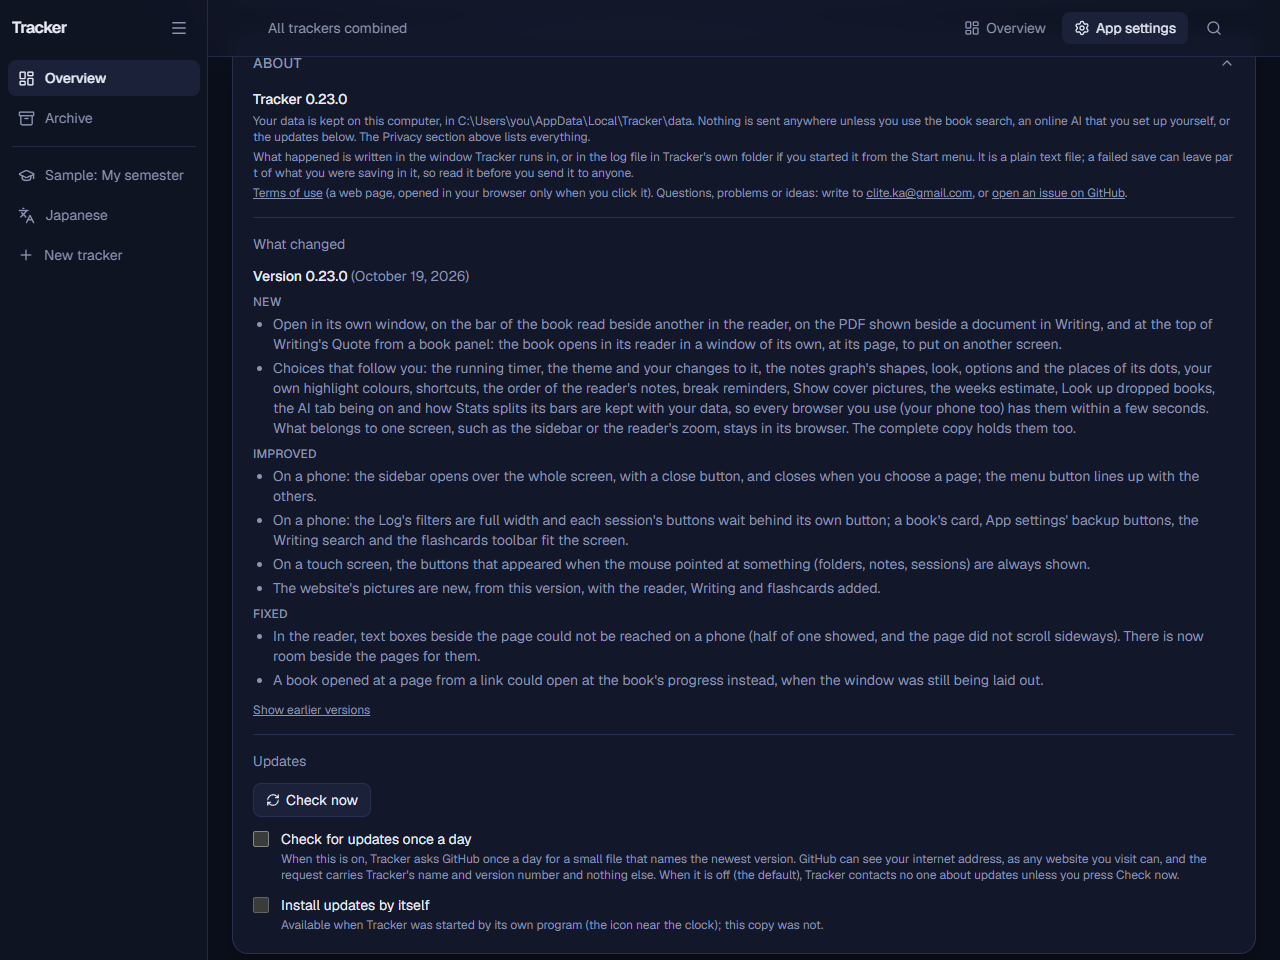
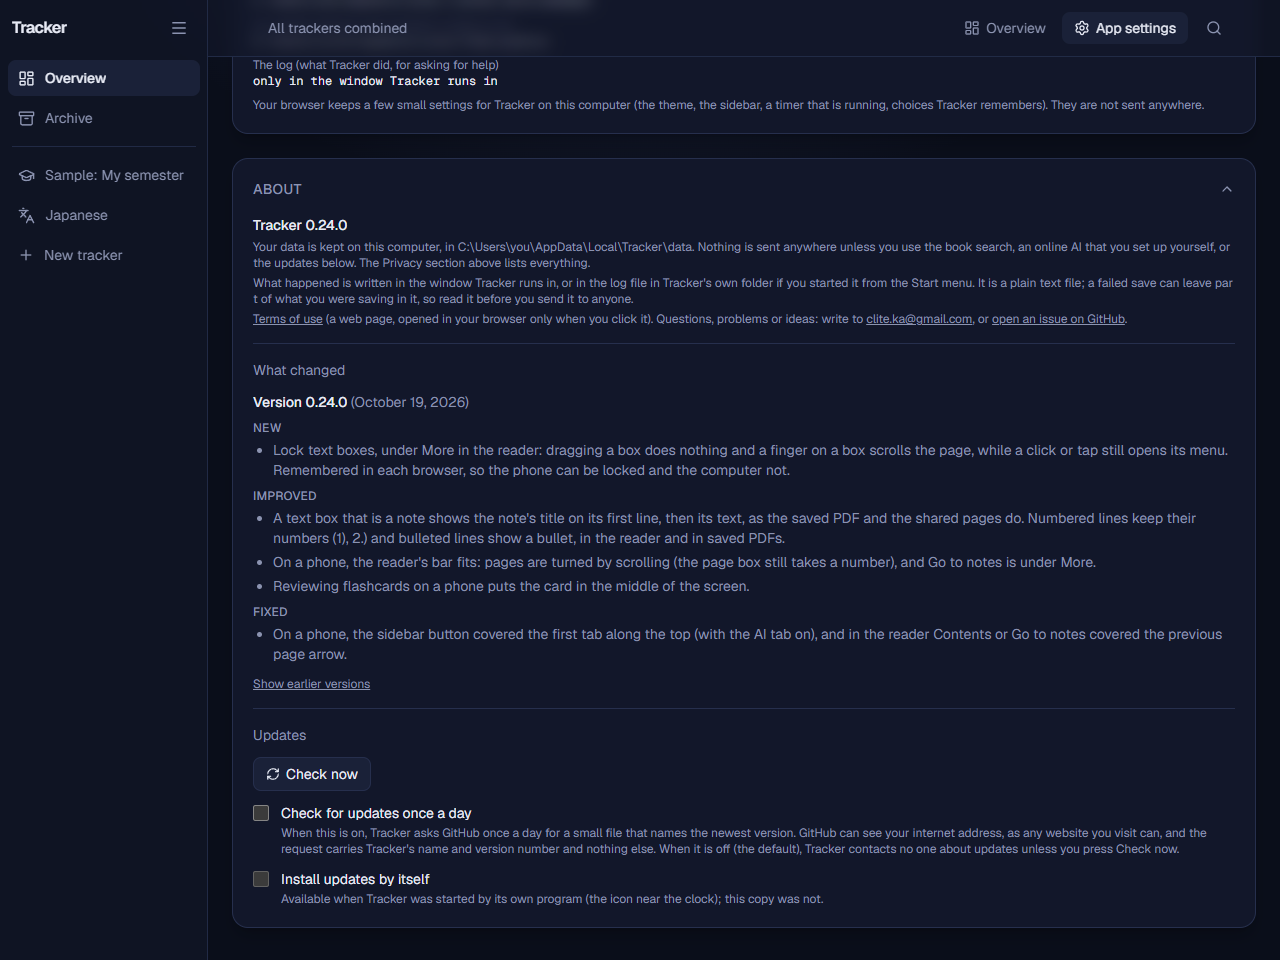
Update the site

Changed region(s): [[0.1875, 0.0625, 0.9688, 0.625], [0.1875, 0.6562, 0.9688, 0.9688], [0.1875, 0.625, 0.2188, 0.6562]]

diff --git a/docs/manual.html b/docs/manual.html
@@ -23,7 +23,7 @@
   </header>
 
   <h1>The full user manual</h1>
-  <p class="lead">Everything Tracker does, part by part. New here? Start with <a href="guide.html">Getting started in ten minutes</a>. This manual describes version 0.23.0; later versions may add things, and App settings, About lists what changed.</p>
+  <p class="lead">Everything Tracker does, part by part. New here? Start with <a href="guide.html">Getting started in ten minutes</a>. This manual describes version 0.24.0; later versions may add things, and App settings, About lists what changed.</p>
 
   <div class="layout">
     <nav class="toc" aria-label="Contents">
@@ -309,9 +309,9 @@
           <li>The <strong>Notes</strong> panel beside the book is for writing while you read. What you type there becomes an ordinary note about this book and the page you are on, saved as you type. <em>New note</em> (or <kbd>N</kbd>) starts another, and the &times; in the box clears it. A quote goes into the note being written; when the box holds a note you opened to change, a quote starts a new note instead.</li>
           <li>Select words on the page: <strong>Quote</strong> puts them in your note with their page, <strong>Highlight</strong> marks them in one of eight colours (yellow, green, blue, pink, orange, purple, red, teal), and <strong>Ask</strong> asks the AI about them (below). Highlighting does not open the Notes panel; <em>Write a note</em> in the highlight&rsquo;s menu does. The <strong>+</strong> after the colours adds a colour of your own (up to eight, the same in every browser you use); it is used like the others, in Save with notes too. Lines that are close together are highlighted one by one, without marking the space between them twice.</li>
           <li>Click a highlight to change its colour, open or write its note, <em>Make a flashcard</em> of it (the highlighted words are the answer), or remove it; removing it keeps its note. Highlights stay on their words at any zoom or text size, and are kept in Tracker, never written into your file.</li>
-          <li>In a PDF, <strong>Text</strong> writes on the page itself, in a margin or any empty space: press it, click where the text goes and type (leaving the box or <kbd>Ctrl</kbd>+<kbd>Enter</kbd> keeps it, <kbd>Esc</kbd> drops it). Drag a text box to move it, drag its right edge to make it wider, and double-click it to change the text. Opening another box while you write keeps what you wrote in the first. A text box can also go beside the page, in the dark space to its left or right: click there with <em>Text</em> on, or drag a box there. If you would rather not, turn off <em>Text boxes beside the page</em> under More: new and moved boxes then stay on the page, and ones already beside it stay where they are (kept in this browser). New text boxes start at 8 pt. While you write, the small bar over the box has <strong>Raise</strong> and <strong>Lower</strong> (<kbd>Ctrl</kbd>+<kbd>Up</kbd>, <kbd>Ctrl</kbd>+<kbd>Down</kbd>): they turn the letter before the cursor (or the selected letters) into a raised or lowered one, as in k&#690; or x&#8322;, for the letters and numbers that have one (with the IPA&rsquo;s). Click a box for its colour, its text size, <em>Make it a note</em> (it asks for the note&rsquo;s title and where it goes, on its own or under a note you find by typing; then it becomes an ordinary note about the book at that page, and the box shows the note; the Notes panel stays as it was) and <em>Delete text box</em>, which can be undone for a few seconds and keeps the note. A click anywhere else closes its menu.</li>
+          <li>In a PDF, <strong>Text</strong> writes on the page itself, in a margin or any empty space: press it, click where the text goes and type (leaving the box or <kbd>Ctrl</kbd>+<kbd>Enter</kbd> keeps it, <kbd>Esc</kbd> drops it). Drag a text box to move it, drag its right edge to make it wider, and double-click it to change the text. Opening another box while you write keeps what you wrote in the first. A text box can also go beside the page, in the dark space to its left or right: click there with <em>Text</em> on, or drag a box there. If you would rather not, turn off <em>Text boxes beside the page</em> under More: new and moved boxes then stay on the page, and ones already beside it stay where they are (kept in this browser). New text boxes start at 8 pt. While you write, the small bar over the box has <strong>Raise</strong> and <strong>Lower</strong> (<kbd>Ctrl</kbd>+<kbd>Up</kbd>, <kbd>Ctrl</kbd>+<kbd>Down</kbd>): they turn the letter before the cursor (or the selected letters) into a raised or lowered one, as in k&#690; or x&#8322;, for the letters and numbers that have one (with the IPA&rsquo;s). Click a box for its colour, its text size, <em>Make it a note</em> (it asks for the note&rsquo;s title and where it goes, on its own or under a note you find by typing; then it becomes an ordinary note about the book at that page, and the box shows the note: its title on the first line, then its text, with numbered and bulleted lines kept; the Notes panel stays as it was) and <em>Delete text box</em>, which can be undone for a few seconds and keeps the note. A click anywhere else closes its menu. <strong>Lock text boxes</strong> under More keeps every box where it is: dragging one does nothing, a finger on a box scrolls the page (useful on a phone), and a click or tap still opens its menu. It is remembered in each browser, so the boxes can be locked on the phone and movable on the computer.</li>
           <li>In a PDF, <strong>Pen</strong> writes or draws on the page by hand (with the mouse, a pen or a finger): choose the ink (black, blue, red or green) and the thickness, and <em>Undo the last line</em> takes lines back one by one. <em>Done</em> (or <kbd>Esc</kbd>) puts the pen down. Click a line later to change its ink or thickness or to delete it.</li>
-          <li><strong>Go to notes</strong> (next to Contents) opens the Notes tab; the <strong>Library</strong> tab brings you back to the book, at the page where you were.</li>
+          <li><strong>Go to notes</strong> (next to Contents; under More on a phone) opens the Notes tab; the <strong>Library</strong> tab brings you back to the book, at the page where you were.</li>
           <li><strong>Read another book beside</strong> (under More; in an EPUB, the button with two books next to <em>Aa</em>) opens a second PDF or EPUB of the same tracker beside the one you read, to read two texts on one topic side by side. Each keeps its own page. In the second book, select words to <em>Highlight</em> them there (in any colour) or <em>Quote in my note</em>: the quotation goes into the note you are writing, followed by the other book&rsquo;s title and page, and the note stays about the first book. The buttons on its bar put it on the other side, choose another book or close it. Which book is beside, and on which side, is remembered for each book. An EPUB beside is read chapter by chapter. On a phone-sized screen there is no room for two, so the second book is not shown there.</li>
           <li><strong>Open in its own window</strong> (the arrow out of a box, on the bar of the book beside) moves that book into a window of its own, its reader at the page it was on, to put on another screen. The book beside closes in the first window. Writing has the same button (see <a href="#writing">Writing</a>). If nothing opens, your browser blocked the new window: allow pop-ups for Tracker.</li>
           <li><strong>Save with notes</strong> (a PDF) saves a copy of the book with your highlights (and the notes written about them, as their comments), text boxes and drawings written into the file as ordinary PDF annotations, so whoever you share it with sees them in Adobe Acrobat, Edge, Chrome, Brave, Firefox or Preview. Tracker's own copy of the book is not changed, so your highlights stay yours to change. A page with a text box beside it is made wider in the copy, with white paper on both sides, so that the box is on the page. The text of a text box is written with the Noto Sans font, which has Turkish, the IPA, Greek and Cyrillic; Chinese, Japanese or Korean in a text box shows as empty boxes on the page, though the full text is in the annotation's comment. A PDF locked with a password cannot be written into.</li>
@@ -386,7 +386,7 @@
         </ol>
         <p>Your phones are listed under <em>Paired phones</em>; the bin button removes one, and it can no longer open Tracker until it is paired again. Unticking the box closes the way in at once; the phones stay paired for when you tick it again. This is part of the installed Tracker (started from its icon).</p>
         <h3>On the phone</h3>
-        <p>The Dashboard and the timer, quick notes, flashcards and reading are made for a phone&rsquo;s screen. In the reader, a page fits the width, the notes open over the page with the panel button and close with the &times; (or when you go to a note&rsquo;s page), and words selected with a finger get the same menu as with a mouse. Writing and the graph are better on the computer.</p>
+        <p>The Dashboard and the timer, quick notes, flashcards and reading are made for a phone&rsquo;s screen. In the reader, a page fits the width, you turn pages by scrolling (the page box still takes a page number), the notes open over the page with the panel button and close with the &times; (or when you go to a note&rsquo;s page), and words selected with a finger get the same menu as with a mouse. Writing and the graph are better on the computer.</p>
         <h3 id="follows">What follows you from browser to browser</h3>
         <p>Some choices follow you to every browser you use Tracker in, the phone included, within a few seconds: the timer while it runs (start it on the computer, stop it on the phone), the theme and your changes to it, the notes graph&rsquo;s shapes, look, options and where its dots are, your own highlight colours, your shortcuts, the order of the reader&rsquo;s notes, break reminders, <em>Show cover pictures</em>, the weeks estimate, <em>Look up dropped books</em>, the AI tab being on, and how Stats splits its bars. What belongs to one screen stays in its own browser: the sidebar open or closed, the reader&rsquo;s zoom and panels, the paper view in Writing and the like. The choices that follow you are kept with your data on the computer, so the complete copy holds them too.</p>
         <h3>Away from home: Tailscale</h3>
